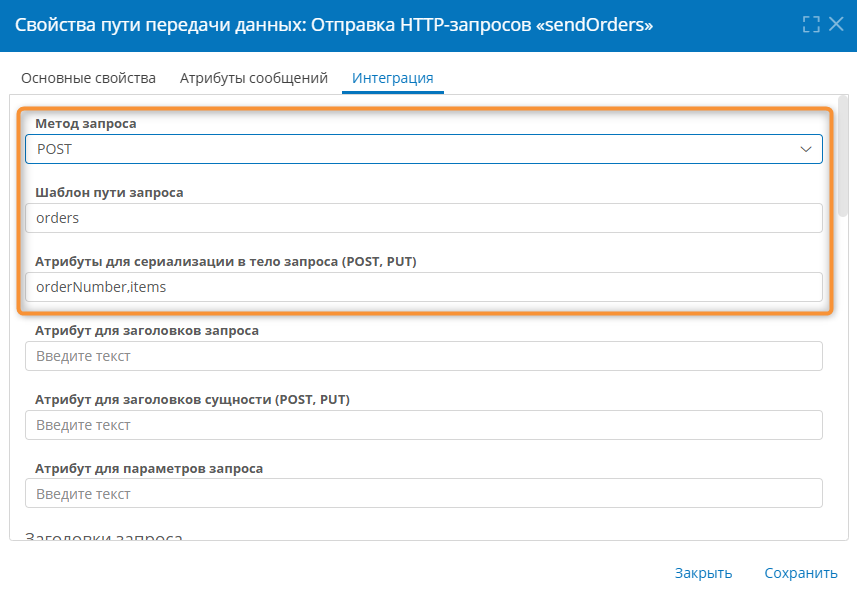
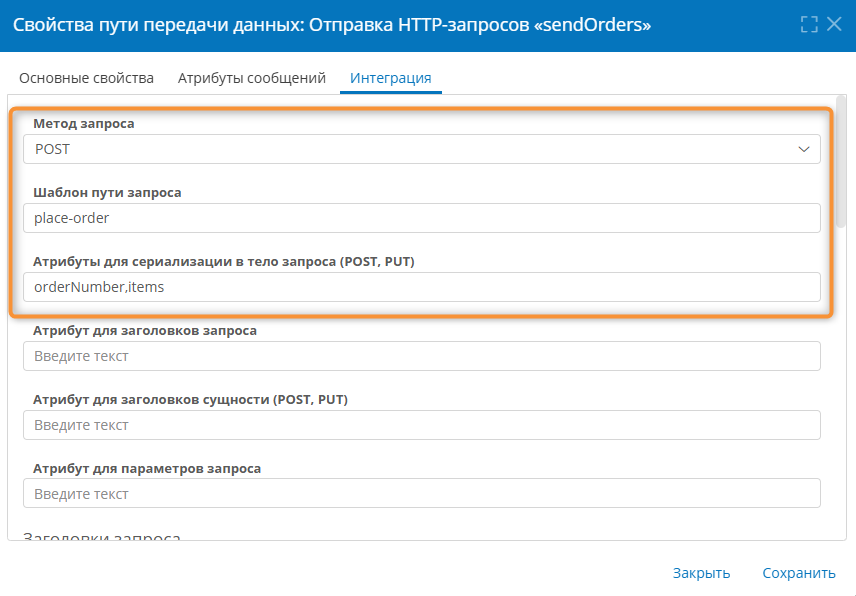
[#10403438] Updated send_http_example_csharp

diff --git a/for_kb_import_ru/administration/connections_communication_routes/rest_odata_connections/send_http_example_csharp.html b/for_kb_import_ru/administration/connections_communication_routes/rest_odata_connections/send_http_example_csharp.html
@@ -193,7 +193,10 @@
 <h3 class="pageBreakBefore" id="http_send_example_csharp_route_integration">Интеграция</h3>
 <ul>
 <li><strong>Метод запроса</strong> — выберите <strong>POST</strong>.</li>
-<li><strong>Шаблон пути запроса</strong> — введите <code>place-order</code> (фактический путь к HTTP-запросу на сервере), этот суффикс будет добавлен к <strong>URI</strong>, указанному в <a class="mkdocs_imported_link" href="https://kb.comindware.ru/article.php?id=4703">свойствах подключения для отправки HTTP-запросов</a>. Например, для <strong>URI</strong> <code>https://&lt;hostname&gt;/api</code> результирующий путь запроса будет <code>https://&lt;hostname&gt;/api/items</code>.</li>
+<li>
+<p><strong>Шаблон пути запроса</strong> — введите <code>place-order</code> (фактический путь к HTTP-запросу на сервере), этот суффикс будет добавлен к <strong>URI</strong>, указанному в <a class="mkdocs_imported_link" href="https://kb.comindware.ru/article.php?id=4703">свойствах подключения для отправки HTTP-запросов</a>.</p>
+<p>То есть, при шаблоне пути запроса <code>place-order</code> для <strong>URI</strong> <code>https://&lt;hostname&gt;/api</code> результирующий путь запроса будет <code>https://&lt;hostname&gt;/api/place-order</code>.</p>
+</li>
 <li>
 <p><strong>Атрибут для сериализации в тело запроса</strong> — введите через запятую системные имена атрибутов из таблицы «<strong>Запрос</strong>» на вкладке «<strong>Атрибуты сообщений</strong>», в нашем примере: <code>orderNumber</code>, <code>items</code>.</p>
 <p><figure class="screenshot_with_caption" markdown=""><img alt="Настройка интеграции в свойствах пути передачи данных для отправки HTTP-запросов" src="/platform/v5.0/administration/connections_communication_routes/rest_odata_connections/img/send_http_example_csharp_integration_settings.png"/><figcaption class="caption">Настройка интеграции в свойствах пути передачи данных для отправки HTTP-запросов</figcaption></figure></p>
@@ -223,7 +226,7 @@
 <p><figure class="screenshot_with_caption" markdown=""><img alt="Настройка контекстного шаблона для отправки HTTP-запроса" src="/platform/v5.0/administration/connections_communication_routes/rest_odata_connections/img/send_http_example_csharp_template_settings.png"/><figcaption class="caption">Настройка контекстного шаблона для отправки HTTP-запроса</figcaption></figure></p>
 </li>
 <li>
-<p>После действия действия «<strong>Нажатие кнопки</strong>» добавьте действие «<strong>Проверить результат скрипта</strong>» для подготовки данных HTTP-запроса с помощью C#-скрипта следующим образом:</p>
+<p>После действия «<strong>Нажатие кнопки</strong>» добавьте действие «<strong>Проверить результат скрипта</strong>» для подготовки данных HTTP-запроса с помощью C#-скрипта следующим образом:</p>
 <ul>
 <li>
 <p><strong>Сообщение об ошибке</strong> — введите текст сообщения, которое будет отображено, если скрипт вернёт <code>false</code> (например, <em>«Не удалось подготовить данные заказа»</em>).</p>
@@ -236,11 +239,11 @@
 <div class="highlight"><code><pre><span></span><code><span class="k">using</span><span class="w"> </span><span class="nn">System</span><span class="p">;</span></code> <br/><code><span class="k">using</span><span class="w"> </span><span class="nn">System.Collections.Generic</span><span class="p">;</span></code> <br/><code><span class="k">using</span><span class="w"> </span><span class="nn">System.Linq</span><span class="p">;</span></code> <br/><code><span class="k">using</span><span class="w"> </span><span class="nn">Comindware.Data.Entity</span><span class="p">;</span></code> <br/><code><span class="k">using</span><span class="w"> </span><span class="nn">Comindware.TeamNetwork.Api.Data.UserCommands</span><span class="p">;</span></code> <br/><code><span class="k">using</span><span class="w"> </span><span class="nn">Comindware.TeamNetwork.Api.Data</span><span class="p">;</span></code> <br/><code></code> <br/><code><span class="k">class</span><span class="w"> </span><span class="nc">Script</span></code> <br/><code><span class="p">{</span></code> <br/><code><span class="w">    </span><span class="k">public</span><span class="w"> </span><span class="k">static</span><span class="w"> </span><span class="kt">bool</span><span class="w"> </span><span class="nf">Main</span><span class="p">(</span><span class="n">Object</span><span class="w"> </span><span class="n">o</span><span class="p">)</span></code> <br/><code><span class="w">    </span><span class="p">{</span><span class="w">      </span></code> <br/><code><span class="w">        </span><span class="c1">// Получаем ID текущей записи (заказа)</span></code> <br/><code><span class="w">        </span><span class="kt">var</span><span class="w"> </span><span class="n">id</span><span class="w"> </span><span class="o">=</span><span class="w"> </span><span class="n">o</span><span class="p">.</span><span class="n">ToString</span><span class="p">().</span><span class="n">Replace</span><span class="p">(</span><span class="s">"user."</span><span class="p">,</span><span class="w"> </span><span class="s">""</span><span class="p">);</span></code> <br/><code></code> <br/><code><span class="w">        </span><span class="c1">// Получаем данные записи:</span></code> <br/><code><span class="w">        </span><span class="c1">// значения атрибутов «Позиции» и «Номер заказа»</span></code> <br/><code><span class="w">        </span><span class="kt">var</span><span class="w"> </span><span class="n">data</span><span class="w"> </span><span class="o">=</span><span class="w"> </span><span class="n">Api</span><span class="p">.</span><span class="n">TeamNetwork</span><span class="p">.</span><span class="n">ObjectService</span><span class="p">.</span><span class="n">GetPropertyValues</span><span class="p">(</span><span class="k">new</span><span class="w"> </span><span class="p">[]{</span><span class="n">id</span><span class="p">},</span><span class="w"> </span><span class="k">new</span><span class="w"> </span><span class="p">[]{</span><span class="s">"Позиции"</span><span class="p">,</span><span class="w"> </span><span class="s">"НомерЗаказа"</span><span class="p">});</span></code> <br/><code><span class="w">        </span><span class="kt">var</span><span class="w"> </span><span class="n">itemsIdsArray</span><span class="w"> </span><span class="o">=</span><span class="w"> </span><span class="n">data</span><span class="p">[</span><span class="n">id</span><span class="p">][</span><span class="s">"Позиции"</span><span class="p">]</span><span class="w"> </span><span class="k">as</span><span class="w"> </span><span class="kt">object</span><span class="p">[];</span></code> <br/><code></code> <br/><code><span class="w">        </span><span class="c1">// Объявляем массив позиций (класс Item)</span></code> <br/><code><span class="w">        </span><span class="kt">var</span><span class="w"> </span><span class="n">listItems</span><span class="w"> </span><span class="o">=</span><span class="w"> </span><span class="k">new</span><span class="w"> </span><span class="n">List</span><span class="o">&lt;</span><span class="n">Item</span><span class="o">&gt;</span><span class="p">();</span></code> <br/><code></code> <br/><code><span class="w">        </span><span class="c1">// Получаем данные каждой позиции</span></code> <br/><code><span class="w">        </span><span class="k">foreach</span><span class="p">(</span><span class="kt">var</span><span class="w"> </span><span class="n">itemId</span><span class="w"> </span><span class="k">in</span><span class="w"> </span><span class="n">itemsIdsArray</span><span class="p">)</span></code> <br/><code><span class="w">        </span><span class="p">{</span></code> <br/><code><span class="w">            </span><span class="kt">var</span><span class="w"> </span><span class="n">itemData</span><span class="w"> </span><span class="o">=</span><span class="w"> </span><span class="n">Api</span><span class="p">.</span><span class="n">TeamNetwork</span><span class="p">.</span><span class="n">ObjectService</span><span class="p">.</span><span class="n">GetPropertyValues</span><span class="p">(</span><span class="k">new</span><span class="w"> </span><span class="p">[]{</span><span class="n">itemId</span><span class="p">.</span><span class="n">ToString</span><span class="p">()},</span><span class="w"> </span><span class="k">new</span><span class="w"> </span><span class="p">[]{</span><span class="s">"Товар"</span><span class="p">,</span><span class="w"> </span><span class="s">"Количество"</span><span class="p">});</span></code> <br/><code><span class="w">            </span><span class="c1">// Собираем экземпляр класса Item</span></code> <br/><code><span class="w">            </span><span class="kt">var</span><span class="w"> </span><span class="n">item</span><span class="w"> </span><span class="o">=</span><span class="w"> </span><span class="k">new</span><span class="w"> </span><span class="n">Item</span><span class="p">{</span><span class="n">product</span><span class="w"> </span><span class="o">=</span><span class="w"> </span><span class="n">itemData</span><span class="p">[</span><span class="n">itemId</span><span class="p">.</span><span class="n">ToString</span><span class="p">()][</span><span class="s">"Товар"</span><span class="p">].</span><span class="n">ToString</span><span class="p">(),</span><span class="w"> </span><span class="n">number</span><span class="w"> </span><span class="o">=</span><span class="w"> </span><span class="n">Convert</span><span class="p">.</span><span class="n">ToInt32</span><span class="p">(</span><span class="n">itemData</span><span class="p">[</span><span class="n">itemId</span><span class="p">.</span><span class="n">ToString</span><span class="p">()][</span><span class="s">"Количество"</span><span class="p">].</span><span class="n">ToString</span><span class="p">())};</span></code> <br/><code><span class="w">            </span><span class="c1">// Собираем массив позиций для отправки</span></code> <br/><code><span class="w">            </span><span class="n">listItems</span><span class="p">.</span><span class="n">Add</span><span class="p">(</span><span class="n">item</span><span class="p">);</span></code> <br/><code><span class="w">        </span><span class="p">}</span></code> <br/><code></code> <br/><code><span class="w">        </span><span class="c1">// Переменная для отправляемых данных</span></code> <br/><code><span class="w">        </span><span class="kt">var</span><span class="w"> </span><span class="n">outMessage</span><span class="w"> </span><span class="o">=</span><span class="w"> </span><span class="k">new</span><span class="w"> </span><span class="n">OutgoingRootMessage</span><span class="p">{</span><span class="n">name</span><span class="w"> </span><span class="o">=</span><span class="w"> </span><span class="n">data</span><span class="p">[</span><span class="n">id</span><span class="p">][</span><span class="s">"НомерЗаказа"</span><span class="p">].</span><span class="n">ToString</span><span class="p">(),</span><span class="w"> </span><span class="n">items</span><span class="w"> </span><span class="o">=</span><span class="w"> </span><span class="n">listItems</span><span class="p">};</span></code> <br/><code><span class="w">        </span><span class="c1">// Проставляем в локальную переменную значение для последующей отправки</span></code> <br/><code><span class="w">        </span><span class="c1">// OutgoingRootMessage – класс сообщения (структура данных)</span></code> <br/><code><span class="w">        </span><span class="c1">// Имя RawBody – состоит из двух частей:</span></code> <br/><code><span class="w">        </span><span class="c1">//1. Raw – системная часть</span></code> <br/><code><span class="w">        </span><span class="c1">//2. Body – имя переменной с сообщением, заданной в действии «Отправить сообщение»</span></code> <br/><code><span class="w">        </span><span class="n">Api</span><span class="p">.</span><span class="n">Base</span><span class="p">.</span><span class="n">LocalVariablesService</span><span class="p">.</span><span class="n">Set</span><span class="o">&lt;</span><span class="n">OutgoingRootMessage</span><span class="o">&gt;</span><span class="p">(</span><span class="s">"RawBody"</span><span class="p">,</span><span class="w"> </span><span class="n">outMessage</span><span class="p">);</span></code> <br/><code></code> <br/><code><span class="w">        </span><span class="k">return</span><span class="w"> </span><span class="k">true</span><span class="p">;</span></code> <br/><code><span class="w">    </span><span class="p">}</span></code> <br/><code><span class="p">}</span></code> <br/><code></code> <br/><code><span class="k">public</span><span class="w"> </span><span class="k">class</span><span class="w"> </span><span class="nc">OutgoingRootMessage</span></code> <br/><code><span class="p">{</span></code> <br/><code><span class="w">    </span><span class="k">public</span><span class="w"> </span><span class="kt">string</span><span class="w"> </span><span class="n">name</span><span class="w"> </span><span class="p">{</span><span class="k">get</span><span class="p">;</span><span class="w"> </span><span class="k">set</span><span class="p">;}</span></code> <br/><code><span class="w">    </span><span class="k">public</span><span class="w"> </span><span class="n">List</span><span class="o">&lt;</span><span class="n">Item</span><span class="o">&gt;</span><span class="w"> </span><span class="n">items</span><span class="w"> </span><span class="p">{</span><span class="k">get</span><span class="p">;</span><span class="w"> </span><span class="k">set</span><span class="p">;}</span></code> <br/><code><span class="p">}</span></code> <br/><code></code> <br/><code><span class="k">public</span><span class="w"> </span><span class="k">class</span><span class="w"> </span><span class="nc">Item</span></code> <br/><code><span class="p">{</span></code> <br/><code><span class="w">    </span><span class="k">public</span><span class="w"> </span><span class="kt">string</span><span class="w"> </span><span class="n">product</span><span class="w"> </span><span class="p">{</span><span class="k">get</span><span class="p">;</span><span class="w"> </span><span class="k">set</span><span class="p">;}</span></code> <br/><code><span class="w">    </span><span class="k">public</span><span class="w"> </span><span class="kt">int</span><span class="w"> </span><span class="n">number</span><span class="w"> </span><span class="p">{</span><span class="k">get</span><span class="p">;</span><span class="w"> </span><span class="k">set</span><span class="p">;}</span></code> <br/><code><span class="p">}</span></code> <br/></pre></code></div>
 </li>
 <li>
-<p>Добавьте и настройте действие «<strong>Отправить сообщение</strong>».</p>
+<p>Добавьте и настройте действие «<strong>Отправить сообщение</strong>»:</p>
 <ul>
 <li><strong>Подключение</strong> — выберите <a class="mkdocs_imported_link" href="https://kb.comindware.ru/article.php?id=4703">подключение для отправки HTTP-запросов</a>.</li>
 <li><strong>Путь передачи данных</strong> — выберите ранее настроенный <a class="mkdocs_imported_link" href="#http_send_example_csharp_route">путь для передачи данных</a> HTTP-запроса.</li>
-<li><strong>Переменная с сообщением</strong> — введите системное имя <strong>набора переменных</strong>, указанное в предшествующем действии «<strong>Изменить значения переменных</strong>» (например, <code>Body</code>).</li>
+<li><strong>Переменная с сообщением</strong> — введите системное имя переменной, в которую предшествующее действие «<strong>Проверить результат скрипта</strong>» помещает данные запроса (в нашем примере <code>Body</code>, без префикса <code>Raw</code>).</li>
 <li><strong>Переменная для успешного ответа</strong> — введите системное имя переменной, в которую будет помещён ответ сервера на HTTP-запрос (например, <code>Success</code>).</li>
 <li>
 <p><strong>Переменная для ответа с ошибкой</strong> — введите системное имя переменной, в которую будет помещён ответ сервера в случае ошибки (например, <code>Error</code>).</p>
